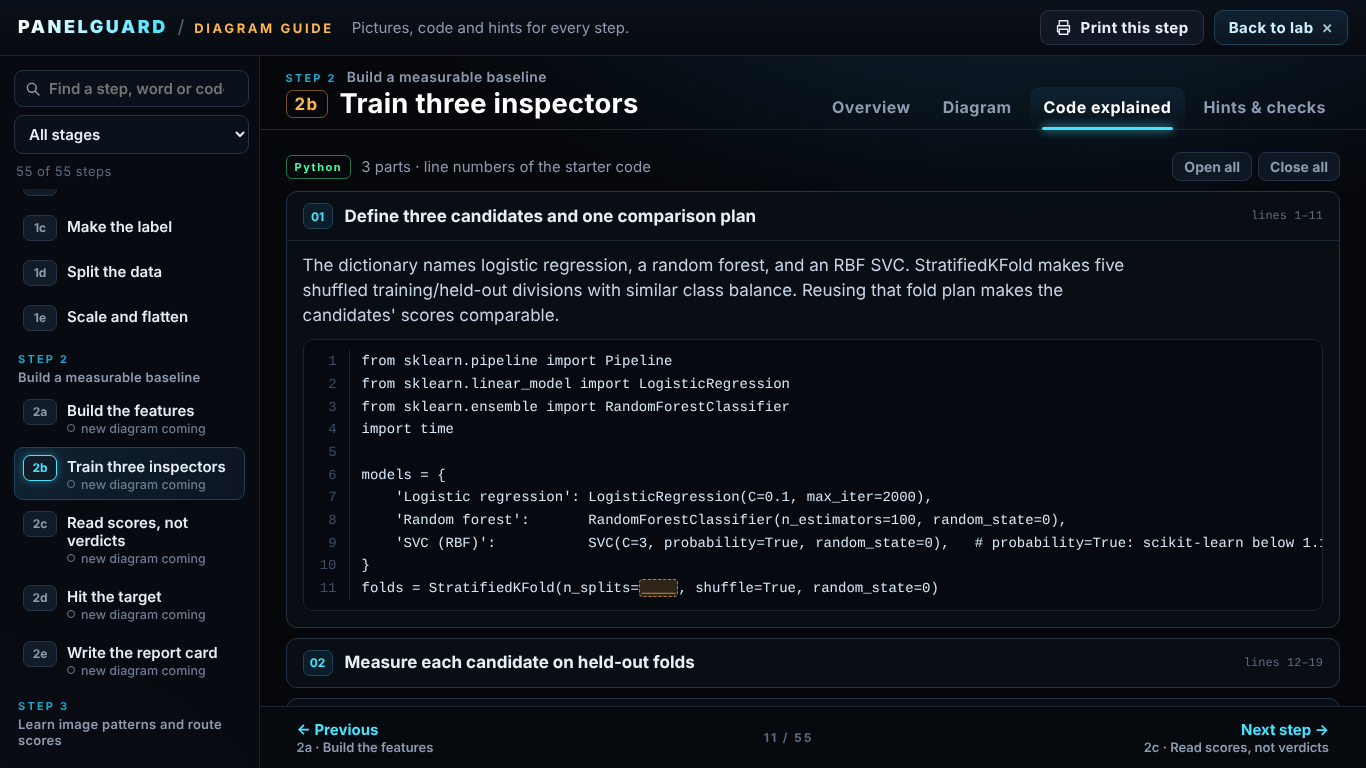
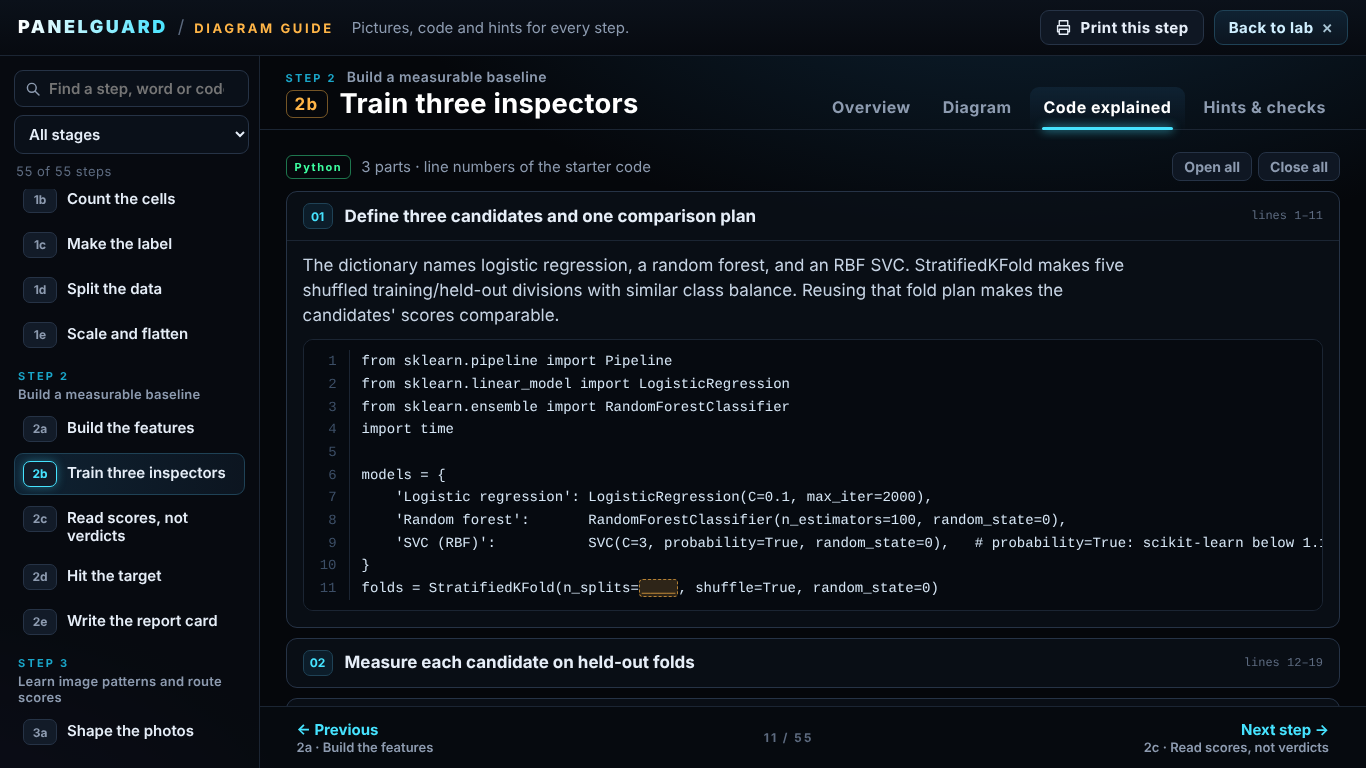
Guide batch 2 (WIP): 2d gate-below-all fix + print autos, legacy wrapper without the paper background
Claude-Session: https://claude.ai/code/session_01JEofQEAJrMSe6pUheGxvRD

Changed region(s): [[0.0, 0.25, 0.1845, 0.8125], [0.0, 0.8438, 0.1537, 0.9688]]

diff --git a/tools/guide/src/diagrams_step2.js b/tools/guide/src/diagrams_step2.js
@@ -613,8 +613,8 @@ function walk() {
   for (var i = 0; i < v.y.length; i++) (v.y[i] === 1 ? d : good).push(i);
   d.sort(function (a, b) { return v.svc[a] - v.svc[b]; });
   var w = { v: v, d: d, nDef: d.length, nOk: good.length, you: v.youSvc };
-  w.at = function (g) {   // gate just below defect g (0-based): g defects pass
-    var cut = v.svc[d[g]], gp = 0; good.forEach(function (i) { if (v.svc[i] < cut) gp++; });
+  w.at = function (g) {   // gate just below defect g (0-based): g defects pass. g = 0: the gate sits below every cell
+    var cut = g ? v.svc[d[g]] : -1, gp = 0; good.forEach(function (i) { if (v.svc[i] < cut) gp++; });
     return { g: g, cut: cut, goodPass: gp, goodStop: w.nOk - gp, rec: (w.nDef - g) / w.nDef, far: (w.nOk - gp) / w.nOk };
   };
   w.between = function (g) { var lo = g ? v.svc[d[g - 1]] : -1, hi = v.svc[d[g]], n = 0; good.forEach(function (i) { if (v.svc[i] >= lo && v.svc[i] < hi) n++; }); return n; };
@@ -643,7 +643,7 @@ function belt2d(c, w, g, o) {
     if (show) s += t(x + 41, SL.by - 32, w.v.svc[w.d[k]].toFixed(3), { size: 14, a: 'middle', f: 'm', fill: C.dim });
   }
   s += pile(862, SL.by + SL.bh - 8, 3, { col: '#a83a50' }) + pile(884, SL.by + SL.bh - 8, 3, { col: '#4d6a86' });
-  s += t(914, SL.by + SL.bh + 36, '+' + (w.nDef - SL.n) + ' defects →', { size: 15, a: 'end', f: 'm', fill: '#ff8aa0' });
+  s += t(888, SL.by - 32, '+' + (w.nDef - SL.n), { size: 15, a: 'middle', f: 'm', w: 700, fill: '#ff8aa0' }) + t(888, SL.by - 14, 'more', { size: 14, a: 'middle', fill: '#ff8aa0' });
   // the gate: a light curtain with two posts
   s += '<g class="' + (o.shake ? 'pgd-shake' : '') + '"><rect x="' + (gx - 5) + '" y="' + (SL.by - 52) + '" width="10" height="' + (SL.bh + 72) + '" rx="3" fill="' + (fx ? 'url(#' + fx.mt + ')' : '#2a3340') + '" stroke="#5d6b80"/>' +
     '<rect x="' + (gx - 1.5) + '" y="' + (SL.by - 4) + '" width="3" height="' + (SL.bh + 8) + '" fill="#ffb547"' + (fx ? ' filter="url(#' + fx.gl + ')"' : '') + '/>' +
@@ -699,6 +699,7 @@ D.register('2d', {
         { v: w.nOk + ' ÷ ' + w.nOk, k: 'good cells stopped ÷ all good cells' }, { op: '=', v: '100%', k: 'false-alarm rate', res: true },
         { t: 'Every defect is caught, but every good cell is stopped too. Lift the gate to pass the lowest scores.' }, srcTag(w.you), refNote(w.you)]);
     },
+    auto: function (c) { c.state.g = 1; },
     on: { lift: function (c) { c.state.g = 1; c.next(); } } },
 
   { cap: 'Lift the gate past the lowest defects, one at a time',
@@ -718,6 +719,7 @@ D.register('2d', {
         { v: fmt(at.goodStop) + ' ÷ ' + w.nOk, k: 'good cells still stopped ÷ all good cells' }, { op: '=', v: p1(at.far), k: 'false-alarm rate', res: true },
         { bar: at.rec, col: C.cy, mark: 0.95 }, srcTag(w.you), refNote(w.you)]);
     },
+    auto: function (c) { c.state.g = walk().maxPass; },
     on: { next: function (c) { var w = walk(); c.state.g++; if (c.state.g >= w.maxPass) c.next(); else c.redraw(true); } } },
 
   { cap: 'Eight defects may slip. One more breaks the target.',

diff --git a/tools/guide/src/legacy.js b/tools/guide/src/legacy.js
@@ -265,7 +265,7 @@ function diagram(id){
   foot='The lab joins data preparation, learned models, a workflow, humans, evidence-based reporting, and monitoring.';break;}
  default:throw new Error('Missing contextual diagram '+id);
  }
- const d=DATA[id];return `<svg xmlns="http://www.w3.org/2000/svg" class="pgd-svg" width="960" height="570" viewBox="0 0 960 570" role="img" aria-labelledby="${uid}-title ${uid}-desc"><title id="${uid}-title">${esc(id+' — '+d.name)}</title><desc id="${uid}-desc">${esc(d.nodes.map(n=>n.join(': ')).join('. '))}</desc>${R(0,0,960,570,C.paper,'none')}${s}${guideFooter(foot)}</svg>`;
+ const d=DATA[id];return `<svg xmlns="http://www.w3.org/2000/svg" class="pgd-svg" width="960" height="570" viewBox="0 0 960 570" role="img" aria-labelledby="${uid}-title ${uid}-desc"><title id="${uid}-title">${esc(id+' — '+d.name)}</title><desc id="${uid}-desc">${esc(d.nodes.map(n=>n.join(': ')).join('. '))}</desc>${R(0,0,960,570,'none','none')}${s}${guideFooter(foot)}</svg>`;
 }
 
 // Optional guide: no teaching content is mounted in the exercise workspace.

diff --git a/tools/guide/src/guide.css b/tools/guide/src/guide.css
@@ -224,8 +224,8 @@ details[open]>summary::before{transform:rotate(90deg)}
 }
 
 /* old diagrams in a dark wrapper: colours inverted, photos kept as they are */
-.pgd-legacy{border-radius:14px;overflow:hidden;border:1px solid #1d3448;background:#0f0f10;box-shadow:0 12px 40px rgba(0,0,0,.45);max-width:1100px}
-.pgd-legacy-pic{background:#0f0f10}
+.pgd-legacy{border-radius:14px;overflow:hidden;border:1px solid #1d3448;background:#0a0e14;box-shadow:0 12px 40px rgba(0,0,0,.45);max-width:1100px}
+.pgd-legacy-pic{background:transparent}
 .pgd-legacy-pic svg{display:block;margin:0 auto;width:100%;height:auto;max-height:calc(100vh - 300px);filter:invert(.94) hue-rotate(180deg) saturate(1.35) brightness(.98)}
 .pgd-legacy-pic svg image{filter:invert(1) hue-rotate(180deg)}
 .pgd-read{max-width:1100px}
